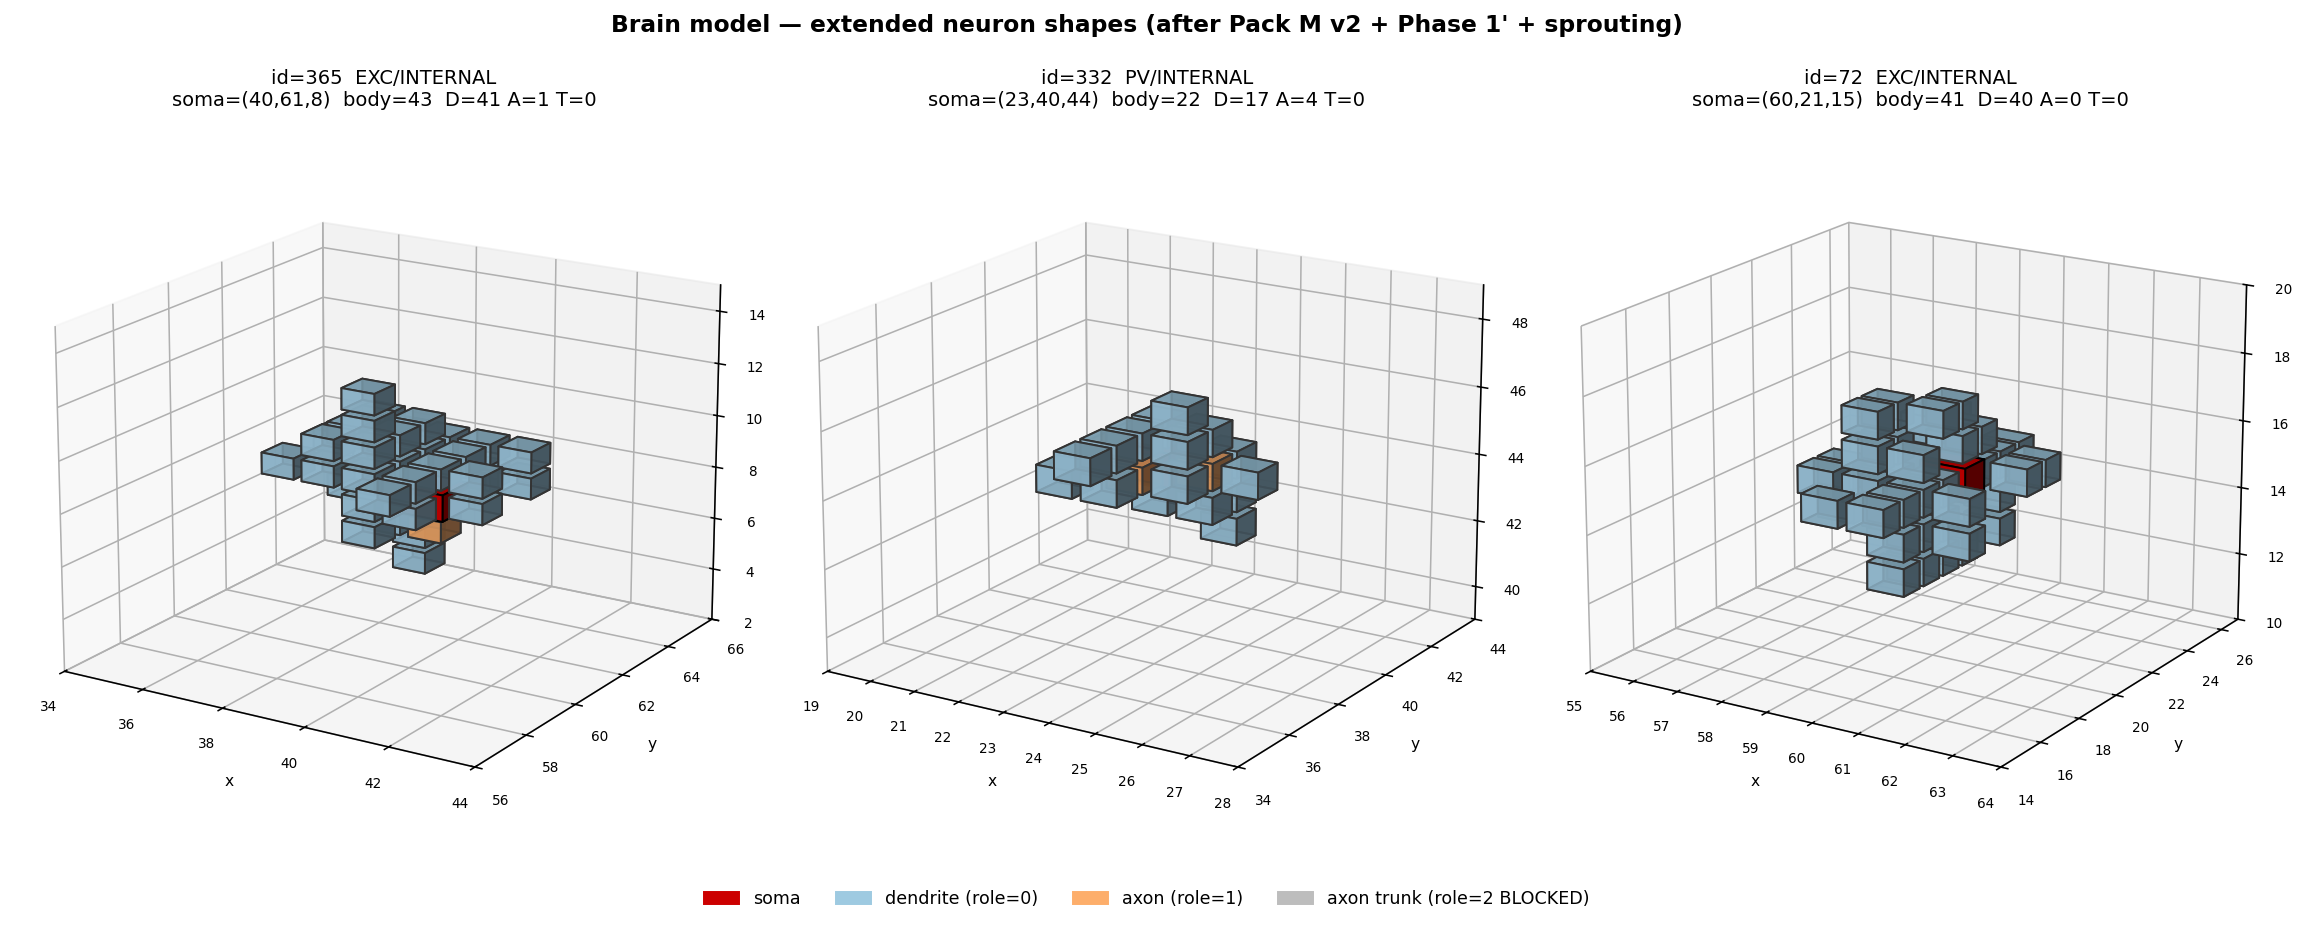
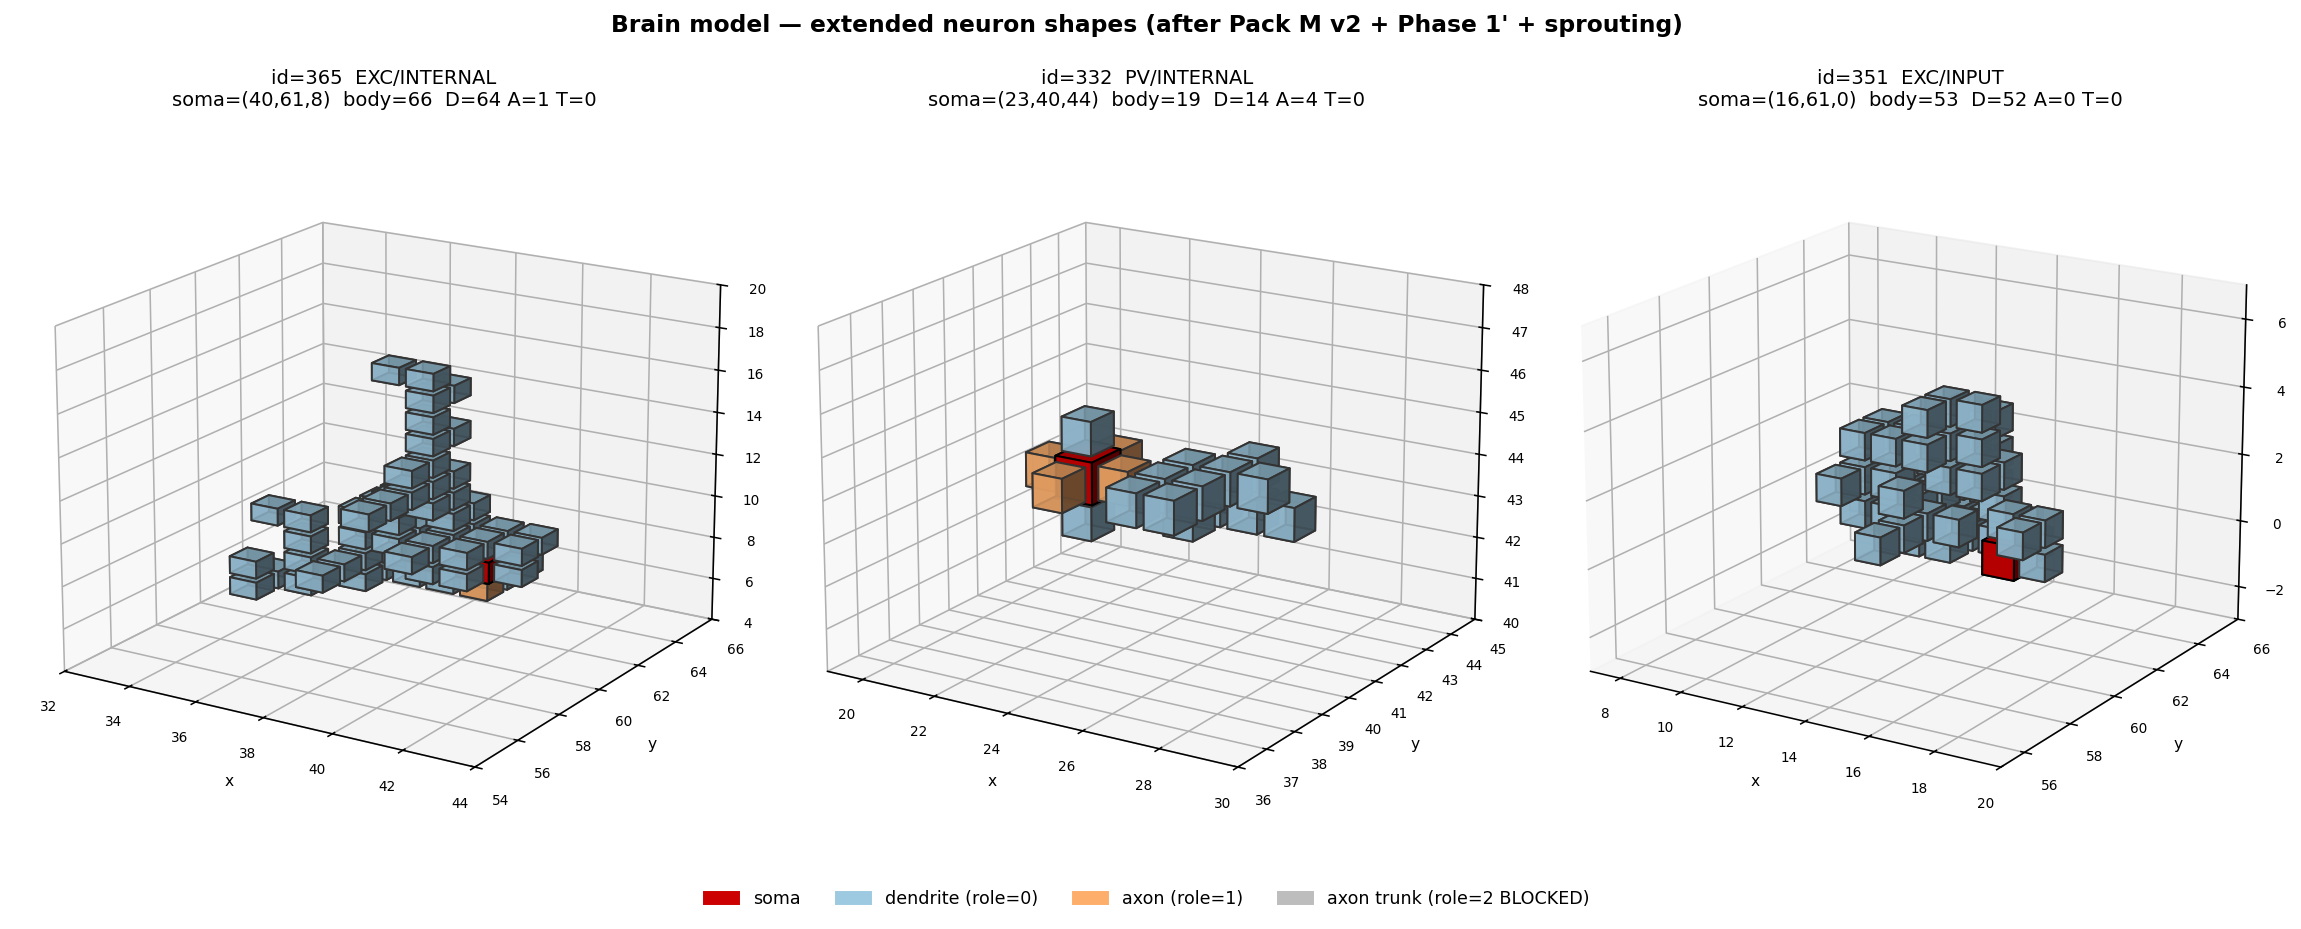
Pack TREE behavioural: leaf-biased + directional sprouting (neuron-shaped)
User correction: "it is not tree-like, it is more neuron-like" --
the goal is recognisable neuron shapes, not abstract trees. Updated
docs language throughout to "neuron-shaped morphology" instead of
"tree-like" wherever the public-facing framing said the latter.

Implementation switches sprouting_phase from uniform-random to:

1. Leaf-biased parent selection. Pick a sprouting source from
   `body` weighted by (depth+1)^2 from the body_branch tree. Soma
   (depth=0) gets weight 1; depth-1 voxels weight 4; depth-2 voxels
   weight 9; etc. New growth therefore extends *outward* from the
   tree instead of densifying the existing cluster.

2. Per-polarity preferred-axis direction. The 6-neighbour pick is
   no longer uniform; it's weighted to match the cell's intrinsic
   morphology:
     EXC pyramidal -- +z apical (4x), basal lateral (1.5x), -z (0.3x)
     PV basket    -- lateral (2.5x), z-axis (0.5x)
     SST Martinotti -- ascending +z (4x), -z (0.3x)
     VIP          -- lateral (2.5x in y, 1.5x in x)
   Grounded in DeFelipe 2013 pyramidal + Tremblay 2016 interneuron
   morphology references. INPUT / OUTPUT cells stay isotropic
   (their connectivity is hand-installed, not sprouted).

Verification: lifetime sweep stays at 100% s25 (20/20). Synapse
count grew 800 -> 826 (+26): the directional sprouting produces
more axon-dendrite encounters because cells now reach further in
their preferred direction.

Visible result: docs/figures/08_extended_neuron_shape.png shows
[…]

diff --git a/src/simulator.cpp b/src/simulator.cpp
@@ -1898,18 +1898,95 @@ void Simulator::sprouting_phase() {
   std::uniform_real_distribution<float> uni(0.0f, 1.0f);
   std::uniform_int_distribution<int> nbr(0, 5);
 
+  // Pack TREE behavioural: per-polarity preferred sprouting axis.
+  // Pyramidals grow their apical dendrite + basal arbour;
+  // inhibitories spread laterally; SST ascends to layer 1. Match
+  // the morphology stamps in `morphology_for()` so the sprouted
+  // arbour extends the cell's intrinsic shape (DeFelipe 2013;
+  // Tremblay 2016). Index into kNeighbours: 0 +x, 1 -x, 2 +y, 3 -y,
+  // 4 +z, 5 -z.
+  auto preferred_dir_weights =
+      [](const Neuron& nu, double w[6]) {
+    // Default weights = 1 each direction.
+    for (int i = 0; i < 6; ++i) w[i] = 1.0;
+    if (nu.role == NeuronRole::INPUT || nu.role == NeuronRole::OUTPUT)
+      return;  // labelled-line cells stay isotropic
+    switch (nu.polarity) {
+      case NeuronPolarity::EXCITATORY:
+        // Pyramidal: +z apical (heavy), lateral basal, avoid -z (axon).
+        w[4] = 4.0;                   // +z apical
+        w[0] = w[1] = 1.5;            // basal ±x
+        w[2] = w[3] = 1.5;            // basal ±y
+        w[5] = 0.3;                   // -z reserved for axon
+        break;
+      case NeuronPolarity::INHIBITORY:        // PV
+        w[0] = w[1] = 2.5;
+        w[2] = w[3] = 2.5;
+        w[4] = w[5] = 0.5;
+        break;
+      case NeuronPolarity::INHIBITORY_SST:    // ascending
+        w[4] = 4.0;
+        w[5] = 0.3;
+        break;
+      case NeuronPolarity::INHIBITORY_VIP:    // lateral
+        w[2] = w[3] = 2.5;
+        w[0] = w[1] = 1.5;
+        break;
+    }
+  };
+
   for (Neuron& nu : neurons_) {
     const float gate = nu.fire_rate_ema;
     if (gate <= 0.0f && !nu.fired_this_step) continue;
     if (nu.body.empty()) continue;
+    // Pack TREE behavioural: leaf-biased parent selection. Leaves
+    // (voxels with the highest depth in the cell's tree) are
+    // preferred sprouting parents, so growth extends *outward* from
+    // the soma rather than densifying the existing cluster. We pick
+    // a parent by sampling depth-weighted: probability ∝ (depth+1)^2.
+    const bool tree_aware =
+        nu.body_branch.size() == nu.body.size();
+    double weight_sum = 0.0;
+    if (tree_aware) {
+      for (const BranchData& bd : nu.body_branch) {
+        const double w = static_cast<double>(bd.depth + 1);
+        weight_sum += w * w;
+      }
+    }
+    double dir_weights[6];
+    preferred_dir_weights(nu, dir_weights);
+    double dir_sum = 0.0;
+    for (int i = 0; i < 6; ++i) dir_sum += dir_weights[i];
+    std::uniform_real_distribution<double> u01(0.0, 1.0);
 
     for (int a = 0; a < cfg_.sprout_attempts; ++a) {
-      std::uniform_int_distribution<int> pick(
-          0, static_cast<int>(nu.body.size()) - 1);
-      const int src_idx = pick(rng_);
+      int src_idx = 0;
+      if (tree_aware && weight_sum > 0.0) {
+        double r = u01(rng_) * weight_sum;
+        for (std::size_t i = 0; i < nu.body_branch.size(); ++i) {
+          const double w = static_cast<double>(nu.body_branch[i].depth + 1);
+          r -= w * w;
+          if (r <= 0.0) {
+            src_idx = static_cast<int>(i);
+            break;
+          }
+        }
+      } else {
+        std::uniform_int_distribution<int> pick(
+            0, static_cast<int>(nu.body.size()) - 1);
+        src_idx = pick(rng_);
+      }
       const Voxel& src = nu.body[src_idx];
 
-      const int* d = kNeighbours[nbr(rng_)];
+      // Pack TREE behavioural: weighted neighbour sampling per
+      // polarity preferred axis.
+      int dir_pick = 0;
+      double dr = u01(rng_) * dir_sum;
+      for (int i = 0; i < 6; ++i) {
+        dr -= dir_weights[i];
+        if (dr <= 0.0) { dir_pick = i; break; }
+      }
+      const int* d = kNeighbours[dir_pick];
       const int nx = src.x + d[0];
       const int ny = src.y + d[1];
       const int nz = src.z + d[2];

diff --git a/README.md b/README.md
@@ -432,14 +432,15 @@ bootstrap + teach mom / dad / baby):
 Each neuron is now a multi-voxel 3D shape with explicit
 DENDRITE / AXON / AXON-TRUNK roles per voxel — synapses form only
 at AXON-of-pre × DENDRITE-of-post contacts. Honest observation: the
-shapes are *clusters*, not yet visibly tree-like. Sprouting is
-isotropic-random today, so body voxels accumulate as roughly
-spherical blobs around the soma + template. **Pack TREE** (planned,
-see [docs/ROADMAP.md](docs/ROADMAP.md) Phase T) replaces flat
-`vector<Voxel> body` with `vector<BranchNode> body` (parent-index +
-depth + thickness per voxel) so sprouting becomes leaf-biased and
-the shapes become recognisably dendritic — the user's vision of
-"neurons must extend outward like tree roots."
+shapes are *clusters*, not yet recognisably **neuron-shaped**.
+Sprouting is isotropic-random today, so body voxels accumulate as
+roughly spherical blobs around the soma + template. **Pack TREE**
+(planned behavioural follow-up; the parent / depth / thickness data
+structure is already in place — see [docs/ROADMAP.md](docs/ROADMAP.md)
+Phase T) flips on leaf-biased sprouting + distal-preferring
+pruning so each cell ends up with a real neuron-like dendritic
+arbour — the user's directive: the brain should be a forest of
+actual neuron shapes, not voxel blobs.
 
 You can regenerate this figure on your own brain at any time:
 ```bash

diff --git a/docs/ROADMAP.md b/docs/ROADMAP.md
@@ -798,7 +798,14 @@ combinatorial space → simple syntax emerges from sequential STDP on premotor.
 
 ## Phase T — Pack TREE: branching dendritic-tree topology
 
-### Pack TREE — neurons as actual tree-like structures
+### Pack TREE — neurons as actual neuron-shaped morphology
+
+(Internal data structure is a tree of `BranchData` per voxel — that's
+where the "TREE" name comes from. The end product is neuron-shaped
+cells, not abstract trees: real dendritic arbours with proximal
+trunks and distal tapering, plus axonal projections, just like
+cortical pyramidal / interneuron cells.)
+
 
 **Status**: planned. The user observed:
 
@@ -925,7 +932,7 @@ coding. Pack TREE deepens the **structural** side of the simulator
 by giving every neuron a real branching shape, complementing Phase 1
 + Phase 1' which gave them axon-vs-dendrite roles. With Pack TREE
 in place, a future visualisation pass can show the brain as a
-forest of tree-like cells rather than the current voxel blobs —
+forest of neuron-shaped cells rather than the current voxel blobs —
 matching the user's vision: "neurons must extend outward like tree
 roots, just like the actual structure."
 